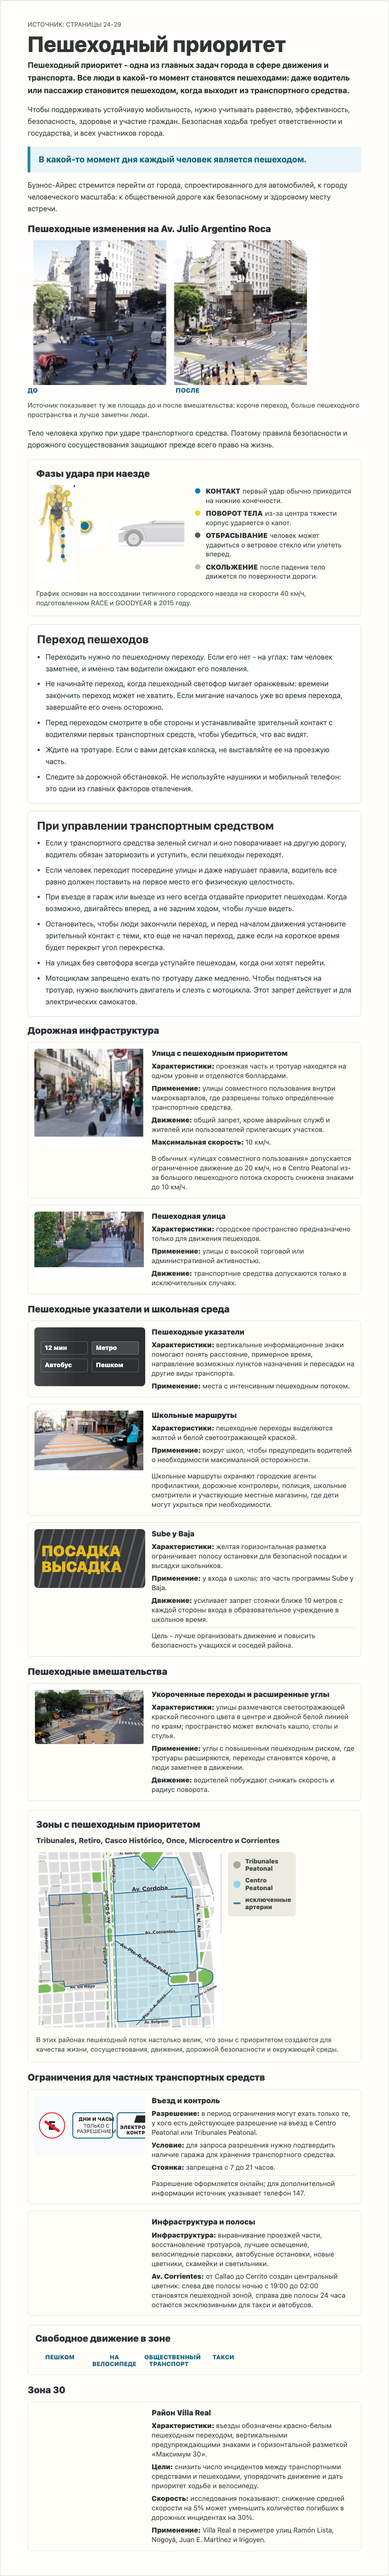
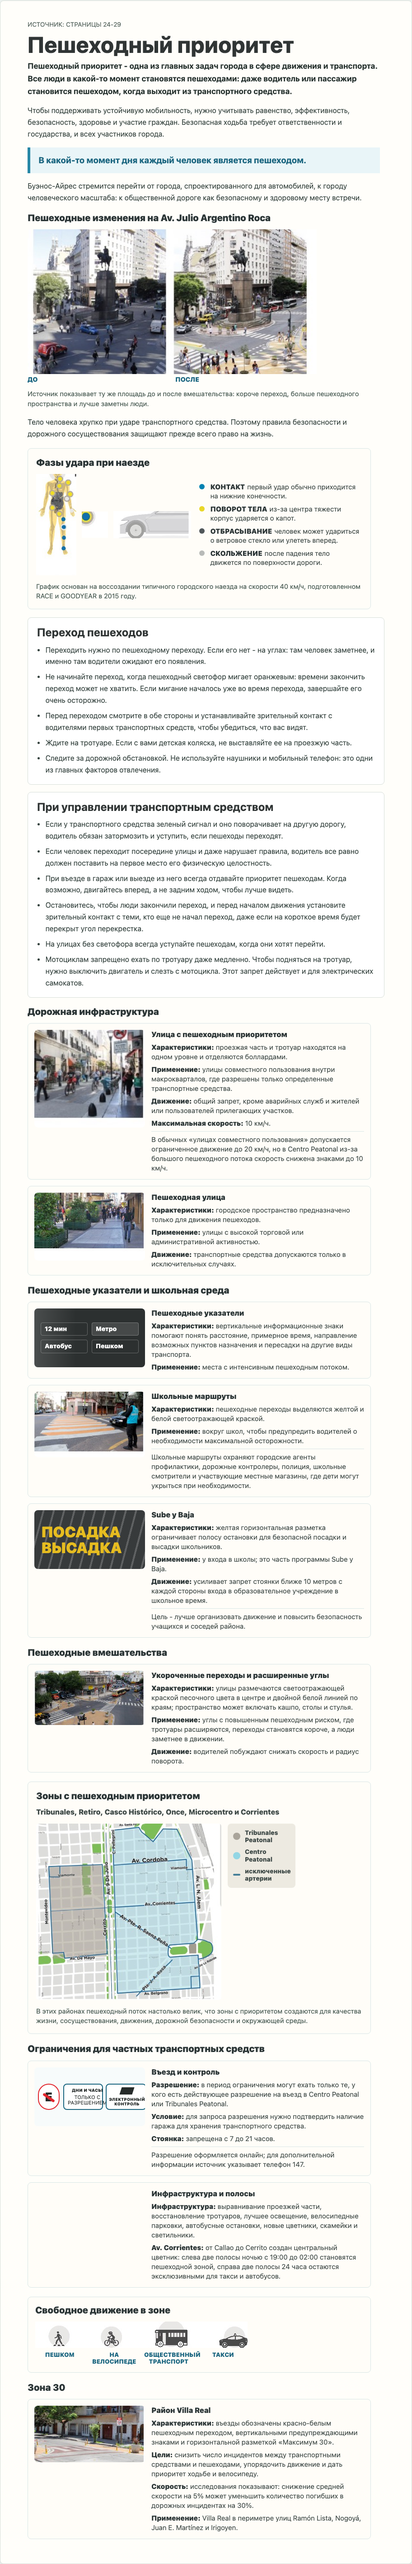
Fix pedestrian restriction sign label fit

Changed region(s): [[0.0605, 0.0, 0.907, 0.9991]]

diff --git a/src/styles.css b/src/styles.css
@@ -2090,10 +2090,10 @@ small,
 
 .manual-restriction-signs {
   display: grid;
-  grid-template-columns: 66px minmax(90px, 1fr) 82px;
-  gap: 8px;
+  grid-template-columns: 50px minmax(88px, 1fr) minmax(90px, 0.9fr);
+  gap: 6px;
   align-items: center;
-  padding: 10px;
+  padding: 8px;
   background: #f7fbfb;
 }
 
@@ -2112,7 +2112,7 @@ small,
 
 .manual-no-parking-sign {
   position: relative;
-  width: 58px;
+  width: 48px;
   border-color: #e1262d;
   border-radius: 999px;
 }
@@ -2144,10 +2144,20 @@ small,
 .manual-authorized-sign strong,
 .manual-control-sign strong {
   color: #262b2a;
-  font-size: 0.68rem;
   font-weight: 950;
   line-height: 1.05;
+  letter-spacing: 0;
   text-transform: uppercase;
+  overflow-wrap: normal;
+  word-break: normal;
+}
+
+.manual-authorized-sign strong {
+  font-size: 0.58rem;
+}
+
+.manual-control-sign strong {
+  font-size: 0.56rem;
 }
 
 .manual-control-sign {
@@ -3731,8 +3741,9 @@ small,
   }
 
   .manual-restriction-signs {
-    grid-template-columns: 60px minmax(84px, 1fr) 74px;
-    gap: 6px;
+    grid-template-columns: 52px minmax(72px, 0.9fr) minmax(96px, 1.1fr);
+    gap: 4px;
+    padding: 8px;
   }
 
   .manual-no-parking-sign {
@@ -3740,9 +3751,20 @@ small,
     min-height: 52px;
   }
 
-  .manual-authorized-sign strong,
+  .manual-authorized-sign {
+    padding-inline: 5px;
+  }
+
+  .manual-control-sign {
+    padding-inline: 4px;
+  }
+
+  .manual-authorized-sign strong {
+    font-size: 0.56rem;
+  }
+
   .manual-control-sign strong {
-    font-size: 0.6rem;
+    font-size: 0.54rem;
   }
 
   .manual-priority-map-layout {

diff --git a/tests/e2e/app.spec.ts b/tests/e2e/app.spec.ts
@@ -2936,6 +2936,27 @@ test("Manual guide exposes Chapter 1 section pages and keeps later sections pend
       if (visibleSpanish !== "false") problems.push(`${src} does not record visible-Spanish=false`);
       if (/pages\/page-02[4-9]\.jpg/u.test(src)) problems.push(`${src} renders a full source page raster`);
     }
+    for (const label of Array.from(root.querySelectorAll(".manual-restriction-signs strong"))) {
+      const labelRect = label.getBoundingClientRect();
+      const signRect = label.parentElement?.getBoundingClientRect();
+      const text = label.textContent?.trim() ?? "restriction label";
+      const style = window.getComputedStyle(label);
+      if (!signRect) {
+        problems.push(`${text} has no sign container`);
+        continue;
+      }
+      if (
+        labelRect.left < signRect.left - tolerance ||
+        labelRect.right > signRect.right + tolerance ||
+        labelRect.top < signRect.top - tolerance ||
+        labelRect.bottom > signRect.bottom + tolerance
+      ) {
+        problems.push(`${text} overflows its restriction sign`);
+      }
+      if (style.wordBreak === "break-all" || style.overflowWrap === "anywhere") {
+        problems.push(`${text} may split at letter level`);
+      }
+    }
     return problems;
   });
   expect(pedestrianIssues).toEqual([]);

diff --git a/specs/030-manual-chapters-1-2/tasks.md b/specs/030-manual-chapters-1-2/tasks.md
@@ -119,7 +119,7 @@ For each section key:
 - [x] Rendered runtime visual content as Russian DOM labels plus local source-derived non-text crops; Spanish source crops remain validation evidence only and are not mounted as learner text/content.
[1 lines of base64/hex data omitted]
 - [x] Generated runtime source-derived non-text assets under `content/assets/manuals/gcba-manual-vehiculo-4-ruedas-2023/sections/ch1-pedestrian-priority/`: before/after photos, impact body/car/target pieces, priority/pedestrian street photos, school-routes/intervention/Zone 30 photos, priority-area map crop, and circulation icon strip; the registry records their dimensions, paths, and hashes.
[2 lines of base64/hex data omitted]
 - [x] Added focused content/e2e tests for route activation, implemented-vs-pending state, source pages `24-29`, visual asset paths/hashes, no unrelated section content, no full source page raster, no visible Spanish learner text, selectable Russian labels, no overflow/layout clipping, and desktop/mobile screenshots.
 - [x] Focused verification passed before this process-memory update: `pnpm exec tsc --noEmit`; `node scripts/manual-guide-source-fidelity.mjs` (`implementedSections: 3`, `pendingSections: 7`, skipped source pages `[21, 43, 56]`, shared source pages `[55]`); `node --test tests/content-manual-guide-chapters.test.mjs` (`19/19`); `pnpm run build`; `pnpm exec playwright test tests/e2e/app.spec.ts -g "Manual guide exposes Chapter 1 section pages"` (`2/2` desktop/mobile after fixing the test to assert uppercase rendered Russian labels).
 - [x] In-app browser verification passed on `http://127.0.0.1:5174/#manual-section-ch1-pedestrian-priority`: rendered `data-manual-section-id="ch1-pedestrian-priority"`, title `Пешеходный приоритет`, Zone 30 content, 11 runtime images all marked `data-visible-spanish="false"`, and no Spanish source labels in learner text. A viewport screenshot attempt timed out, so committed Playwright desktop/mobile screenshots remain the screenshot evidence for this slice.
@@ -128,6 +128,8 @@ For each section key:
 - [x] Dead-end recorded: the first Docker route smoke used plain `node --input-type=module` and failed with `ERR_MODULE_NOT_FOUND` for Playwright because pnpm's module resolution was not active; rerunning the same smoke through `pnpm exec node --input-type=module` passed.
 - [x] Known issues for this implementation slice: none at local handoff; no unresolved Implementation Agent feedback.
 - [x] Finalized implementation commit/push and opened ready PR metadata for this slice: PR #179, `https://github.com/cucumberfalse/cabadrive/pull/179`, branch `codex/030-ch1-pedestrian-priority`, implementation content head before this PR-metadata evidence update `ee2b335884a445b92ce195500bf90527672b9594`, draft status `false`. Final handoff head is the later process-memory evidence commit reported by the Implementation Agent after push.
+- [x] Follow-up visual blocker fix for PR #179: adjusted the localized `Ограничения для частных транспортных средств` restriction-sign grid so the no-parking sign is narrower, the middle/right sign columns get enough width, and the sign labels keep normal word wrapping without `break-all` or `anywhere`; added a focused Playwright bounding-box guard for `.manual-restriction-signs strong` labels so `Дни и часы` and `Электронный контроль` must remain inside their sign boxes on desktop/mobile.
+- [x] Follow-up visual blocker verification: regenerated desktop/mobile screenshots at the paths above; focused Playwright passed `pnpm exec playwright test tests/e2e/app.spec.ts -g "Manual guide exposes Chapter 1 section pages"` (`2/2`); `pnpm run build` passed including content validation and source-fidelity; in-app browser verification on `http://127.0.0.1:5203/#manual-section-ch1-pedestrian-priority` confirmed both restriction sign labels fit, `word-break: normal`, `overflow-wrap: normal`, and section id `ch1-pedestrian-priority`.
 
 ## Review Requirements
 
